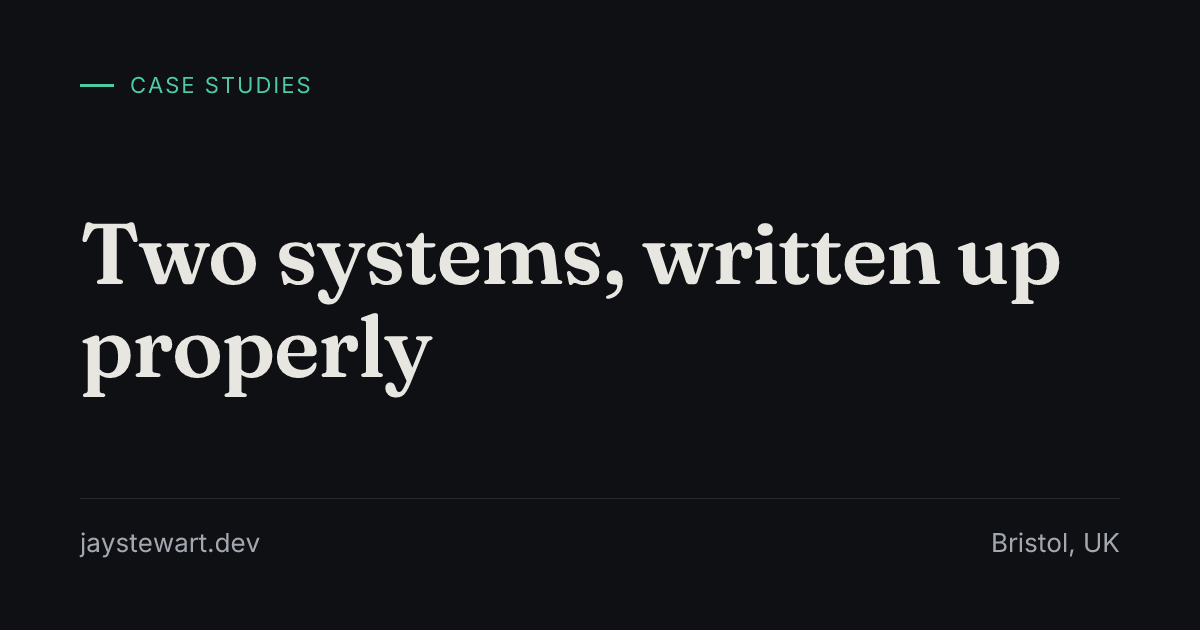
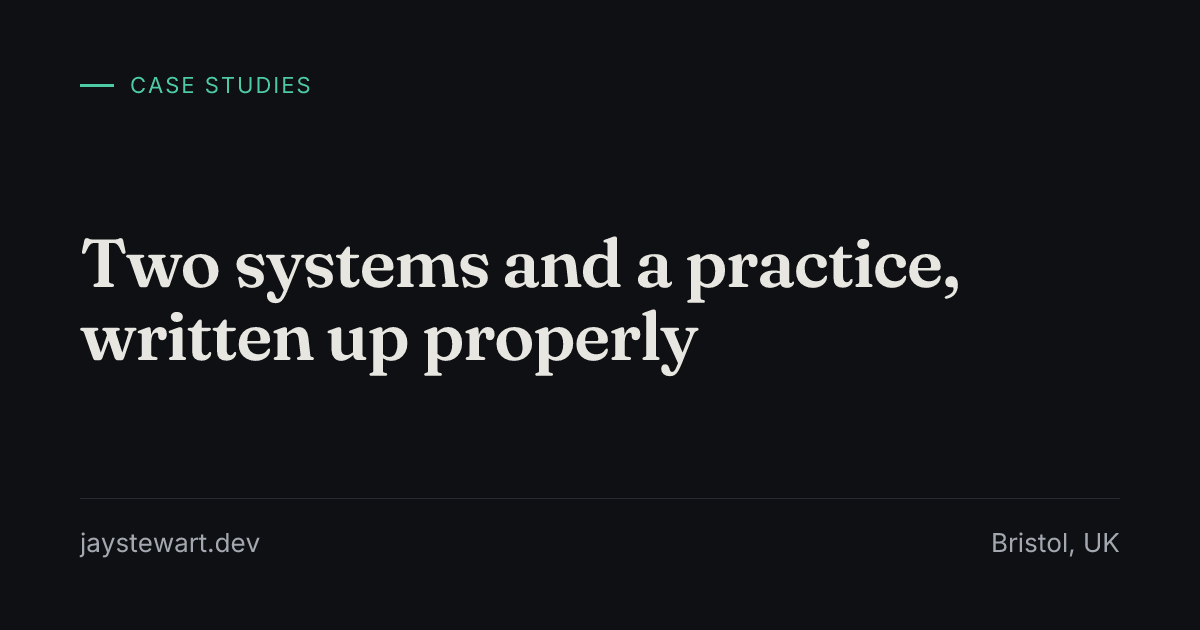
Add the flagship case study: an agent-operated production codebase
The practice write-up the audit offer sells from: what agent-operated
means (and does not), the plausible-code failure mode with a real
worked example, the verification gates and release pipeline as a
diagram, decision records as policy, the 4 live drift findings in the
context layer of the best-disciplined repo, and groundtruth as the
response — ending with the transferable-audit pointer.

Supporting changes:

- New agentCommits counter (author or Co-authored-by trailer naming an
  agent): 1,649 of 1,937 commits on the flagship, 1,045 of 1,404 on the
  transit product. Rendered in the study header alongside the total so
  the share is the honest figure.
- Work index, home "Selected work" blurb, and working-with-agents page
  updated to carry the third study; OG image entry added; a11y and
  Lighthouse route lists extended.

Changed region(s): [[0.0617, 0.3317, 0.8942, 0.4825], [0.0617, 0.4825, 0.5858, 0.6333]]

diff --git a/tests/a11y.spec.ts b/tests/a11y.spec.ts
@@ -20,6 +20,7 @@ const routes = [
   '/work/',
   '/work/agendaprofe/',
   '/work/realtime-transit/',
+  '/work/agent-operated-codebase/',
   '/notes/',
   '/notes/development-environment-is-a-server/',
   '/notes/a-compiler-for-agent-context/',
